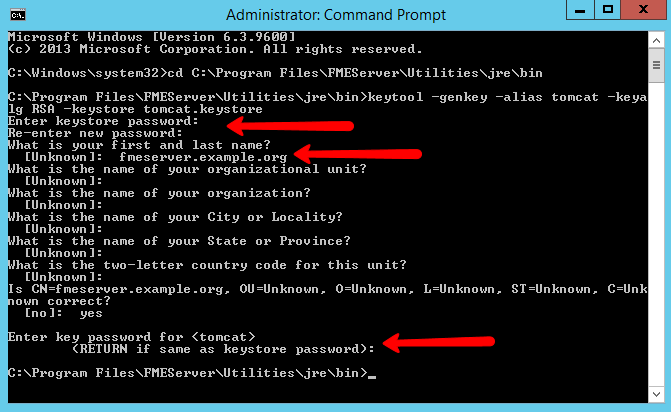
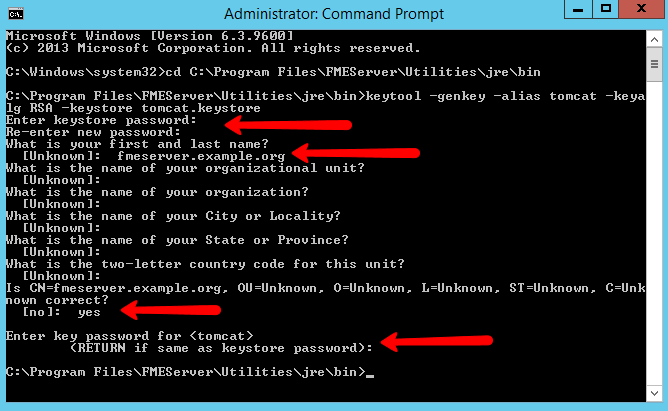
ch3 Review
made error fixes and updates based on feedback from manual review

diff --git a/ServerAdmin3Security/Exercise3_ConfiguringForHTTPS.md b/ServerAdmin3Security/Exercise3_ConfiguringForHTTPS.md
@@ -50,15 +50,17 @@ First, you must generate a keystore that contains a certificate chain using the 
 
 3) Run the following command to create a new keystone file:
 
-		keytool -genkey -alias tomcat -keylag RSA -keystore tomcat.keystore
+		keytool -genkey -alias tomcat -keyalg RSA -keystore tomcat.keystore
  
 4) Set a password for the new keystore and specify the server domain name (for example, *fmeserver.example.org*) as your first and last name.
 
-5) When prompted for the password for the alias &lt;tomcat&gt;, press RETURN.
+5) Enter yes when prompted if inputs are correct.
 
-6) A new keystore is created in *C:\Program Files\FMEServer\Utilities\jre\bin\\*.
+6) When prompted for the password for the alias &lt;tomcat&gt;, press RETURN.
 
-7) Copy the new keystore file to the tomcat directory in the FME Server installation: *C:\Program Files\FMEServer\Utilities\tomcat\\*.
+7) A new keystore is created in *C:\Program Files\FMEServer\Utilities\jre\bin\\*.
+
+8) Copy the new keystore file to the tomcat directory in the FME Server installation: *C:\Program Files\FMEServer\Utilities\tomcat\\*.
 
 ![](./Images/3.404.ConfigureForHTTPS_createKeytool.png)
 
@@ -70,7 +72,7 @@ The new keystore must be imported into the FME Server keystore for trusted certi
 
 	keytool -importkeystore -srckeystore tomcat.keystore -destkeystore "C:\Program Files\FMEServer\Utilities\jre\lib\security\cacerts"
 
-You will be prompted to enter two passwords. One for the destination keystore. The password for the destination keystore is **changeit**. The password for the source keystore is the password that was specified in step 3 above.
+You will be prompted to enter two passwords. One for the destination keystore. The password for the destination keystore is **changeit**. The password for the source keystore is the password that was specified in step 4 above.
 
 ![](./Images/3.405.ConfigureForHTTPS_selfSignedCertificate.png)
 
@@ -80,7 +82,7 @@ In the next steps, we modify three configuration files of Apache Tomcat. All thr
 
 **a) Configure *server.xml***
 
-1) Open the *server.xml* file in a text editor.
+1) Open the *server.xml* file in a text editor in administrator mode.
 
 2) Locate the *SSLEngine* setting in the *&lt;Listener&gt;* element, including *className="org.apache.catalina.core.AprLifecycleListener"* and change the *“on”* value to *“off”*.
 
@@ -106,14 +108,14 @@ In the next steps, we modify three configuration files of Apache Tomcat. All thr
 		<Connector port="80" protocol="HTTP/1.1"
 		redirectPort="443"/>
 		
-4) Make sure to exchange *&lt;FMEServerDir&gt;* and *&lt;your_password&gt;* with the install directory of FME Server and the password of the keystore that was specified in step 3 under *i. Create a Keystore File*.
+4) Make sure to exchange *&lt;FMEServerDir&gt;* and *&lt;your_password&gt;* with the install directory of FME Server and the password of the keystore that was specified in step 4 under *i. Create a Keystore File*.
 
 5) Save and close the *server.xml* file.
 <br><br>
 
 **b) Configure *web.xml***
 
-1) Open the *web.xml* file in a text editor.
+1) Open the *web.xml* file in a text editor in administrator mode.
 
 2) Add the following code block to the end of the file, just before the closing *&lt;/web-app&gt;* element:
 
@@ -132,7 +134,7 @@ In the next steps, we modify three configuration files of Apache Tomcat. All thr
 
 **c) Configure *context.xml***
 
-1) Open the *context.xml* file in a text editor.
+1) Open the *context.xml* file in a text editor in administrator mode.
 
 2) Add the following to the end of the file, just before the closing *&lt;/context&gt;* element:
 

diff --git a/ServerAdmin3Security/3.05.ActiveDirectoryFMEServer.md b/ServerAdmin3Security/3.05.ActiveDirectoryFMEServer.md
@@ -32,7 +32,7 @@ FME Server only has read permission on any connected Active Directory listing.
 
 ## Integrated Windows Authentication ##
 
-With Integrated Windows Authentication, also known as "single sign-on", you can enable the users you import from your Active Directory connections to integrate their Windows login credentials with FME Server. When single sign-on is enable:
+With Integrated Windows Authentication, also known as "single sign-on", you can enable the users you import from your Active Directory connections to integrate their Windows login credentials with FME Server. When single sign-on is enabled:
 
 - There is no need to log in to the FME Server Web User Interface. Instead, select **Use Windows Credentials** on the Sign In page.
 - Similarly, there is no need to log in to FME Server when using FME Workbench to publish a workspace. Instead, simply check **Use Windows session credentials** in the *Publish to FME Server* wizard.

diff --git a/ServerAdmin3Security/3.02.SecurityPolicies.md b/ServerAdmin3Security/3.02.SecurityPolicies.md
@@ -8,7 +8,7 @@ Run Workspace controls the ability to - you guessed it - run a workspace on FME 
 
 ### Jobs ###
 
-Access to the Jobs page allows the user to view the jobs they have run, or cancel any of their jobs that are currently running or in queue. The *Manage* option allows them to view the full Job history on FME Server and the ability to cancel any job, or remove any job from the history.
+Access to the Jobs page allows the user to view the jobs they have run, or cancel any of their jobs that are currently running or in the queue. The *Manage* option allows them to view the full Job history on FME Server and the ability to cancel any job, or remove any job from the history.
 
 ### Schedules ###
 

diff --git a/ServerAdmin3Security/Exercise1_CreatingANewUser.md b/ServerAdmin3Security/Exercise1_CreatingANewUser.md
@@ -74,7 +74,7 @@ Select **OK** at the bottom to create the user.
 
 
 <br>**4) Test the New User Account**
-<br>It's important to verify the the options we set have been honored.
+<br>It's important to verify the options we set have been honored.
 
 Either logout of the admin account or open a new private browsing window, and login using the credentials for the new user account we just created.
 
